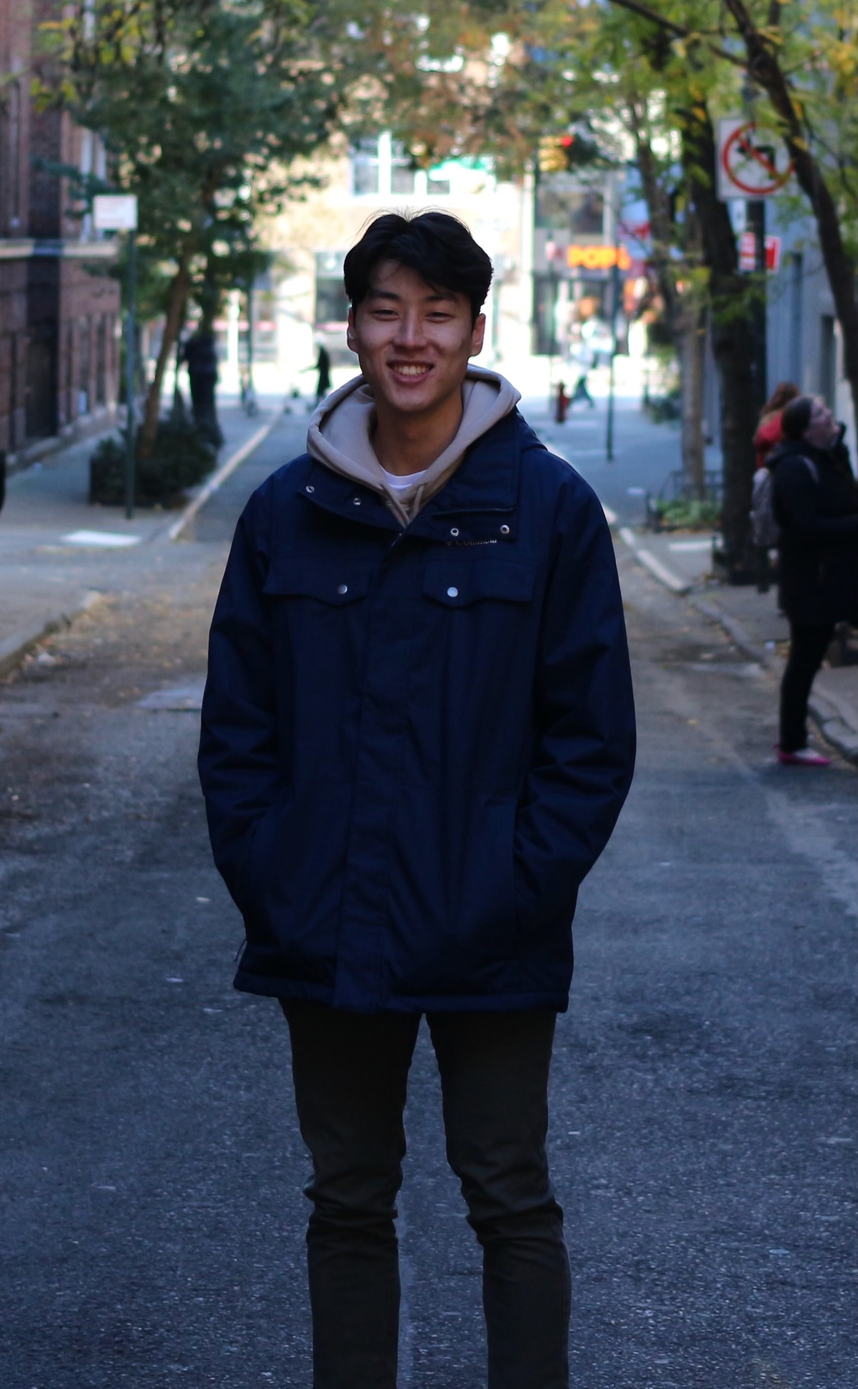
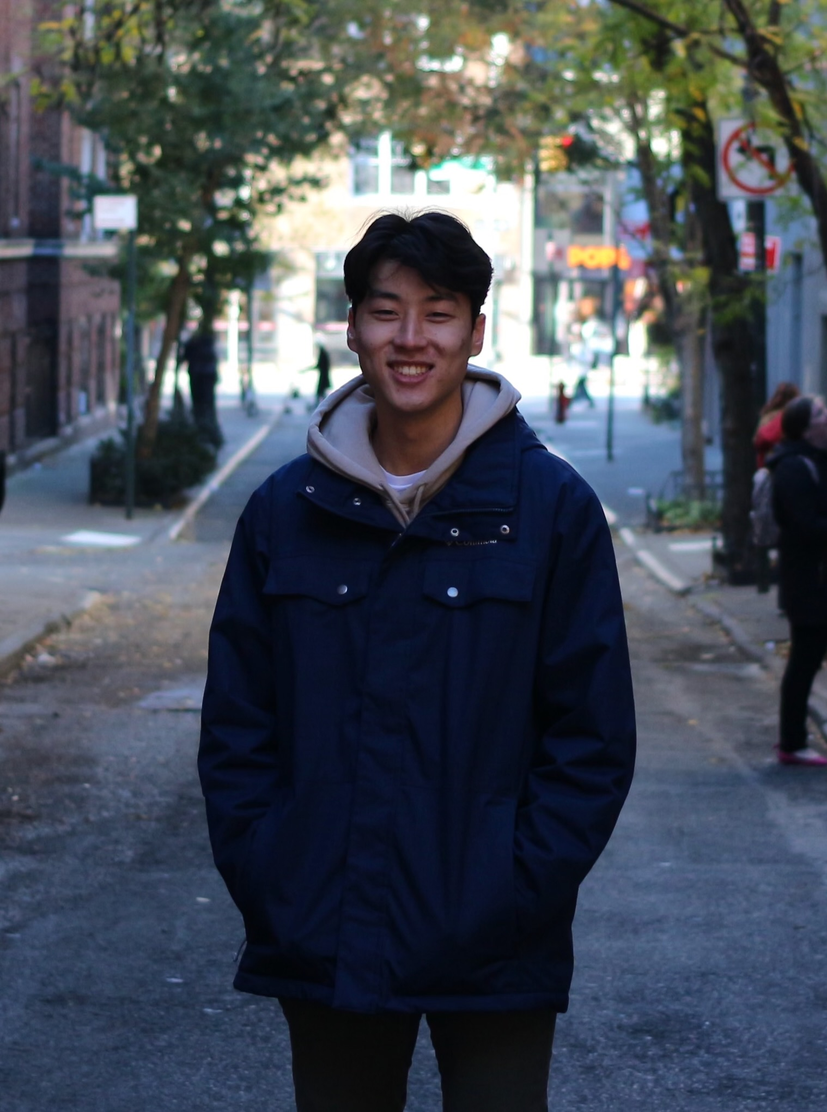
Complete the About section of the personal portfolio
This section provides more information about Jonathan
Kim's skills, experiences, and education as a college
student and a computer science major.

diff --git a/index.html b/index.html
@@ -29,14 +29,86 @@
                 <div class="header-text">
                     <p>Aspiring Software Developer</p>
                     <h1>
-                        Hi, I'm <span>Jonathan</span><br>from Massachusetts
+                        Hi, I'm <span>Jonathan</span><br> Kim from Boston
                     </h1>
                 </div>
                 <div class="image-container">
-                    <img src = "images/hero.jpeg" alt = "photo of Jonathan Kim"> 
+                    <img src = "images/user.jpeg" alt = "photo of Jonathan Kim"> 
                 </div>
             </div>
-        </div>     
+        </div>
+        <!------------- about ---------------->
+        <div id = "about">
+            <div class="container">
+                <div class="row">
+                    <div class="about-col-1">
+                        <img src="images/hero.jpeg" alt="photo two of Jonathan Kim">
+                    </div>
+                    <div class="about-col-2">
+                        <h1 class = "sub-title">About Me</h1>
+                        <p>
+                            Lorem ipsum dolor sit amet consectetur adipisicing elit. 
+                            Cum quibusdam, accusantium rem labore et ea quisquam dolorum 
+                            voluptatum impedit iste nulla provident amet officia possimus 
+                            a ratione. Porro, officia sunt?
+                        </p>
+
+                        <div class="tab-titles">
+                            <p class = "tab-links active-link" onclick = "opentab('skills')">Skills</p>
+                            <p class = "tab-links" onclick = "opentab('experience')">Experience</p>
+                            <p class = "tab-links" onclick = "opentab('education')">Education</p>
+                        </div>
+                        <div class="tab-contents active-tab" id = "skills">
+                            <ul>
+                                <li><span>Object Oriented Programming</span><br>Python, Java, C</li>
+                                <li><span>Web Development</span><br>HTML/CSS, JavaScript </li>
+                                <li><span>Statistical Analysis &amp; ML</span><br> R</li>
+                                <li><span>Version Control</span><br> Git, Github</li>
+                            </ul>
+                        </div>
+                        <div class="tab-contents" id = "experience">
+                            <ul>
+                                <li><span>June 2023 - Present</span><br>Machine learning research
+                                intern at Lyford Labs at Middlebury College</li>
+                                <li><span>February 2022 - Present</span><br>Computer science teacher
+                                assistant at the Middlebury College Center for Teaching, Learning, and 
+                                Research. </li>
+                                <li><span>June 2022 - August 2022</span><br> Cancer biology research 
+                                    assistant for Maitra Lab at MD Anderson Cancer Center </li>
+                                <li><span>May 2020 - August 2021</span><br> Psychiatric biology research 
+                                    assistant for Karmacharya Lab at Massachusetts General Hospital </li>
+                            </ul>
+                        </div>
+                        <div class="tab-contents" id = "education">
+                            <ul>
+                                <li><span>September 2021 - May 2026</span><br>Middlebury College</li>
+                                <li><span>September 2017 - May 2021</span><br>Buckingham Browne &amp; Nichols High School</li>
+                            </ul>
+                        </div>
+
+
+                    </div>
+                </div> 
+            </div>
+        </div>
     </div>
+
+        
+    <script>
+        let tablinks = document.getElementsByClassName("tab-links");
+        let tabcontents = document.getElementsByClassName("tab-contents");
+        function opentab(tabname) {
+            for (tablink of tablinks) {
+                tablink.classList.remove("active-link"); 
+            }
+            for (tabcontent of tabcontents) {
+                tabcontent.classList.remove("active-tab"); 
+            }
+            event.currentTarget.classList.add("active-link");
+            document.getElementById(tabname).classList.add("active-tab");
+        }
+    </script>
+</body>
+</html>     
 
     

diff --git a/style.css b/style.css
@@ -3,6 +3,7 @@
     padding: 0;
     font-family: "Poppins", sans-serif;
     box-sizing: border-box;
+    /* outline: 1px dotted red; */
 }
 
 body {
@@ -18,6 +19,8 @@ body {
 .container {
     padding: 10px 10%;
 }
+
+/* ----------- navigation bar ------------------ */
 
 nav {
     display: flex;
@@ -59,13 +62,16 @@ nav ul li a:hover::after {
     width: 100%;
 }
 
+/* ----------- header ------------------ */
+
 .header-content {
-    display:flex;
+    display: flex;
     justify-content: space-between;
+    align-items: center;
+    margin-top: 100px;
 }
 
 .header-text {
-    margin-top: 20%;
     font-size: 30px;
 }
 
@@ -75,7 +81,7 @@ nav ul li a:hover::after {
 }
 
 .header-text h1 span {
-    color: light-blue;
+    color: #38b6ff;
 }
 
 
@@ -83,6 +89,87 @@ nav ul li a:hover::after {
     max-width: 100%;
     height: 500px;
     object-fit: contain;
-    margin: 100px 0;
+    border-radius: 15px;
+
 }
 
+/* ----------- about ------------------ */
+
+#about {
+    padding: 80px 0;
+    color: #ababab;
+}
+
+.row {
+    display: flex;
+    justify-content: space-between;
+    flex-wrap: wrap;
+}
+
+.about-col-1 {
+    flex-basis: 35%;
+}
+.about-col-1 img {
+    width: 500px;
+    border-radius: 15px;
+} 
+
+.about-col-2 {
+    flex-basis: 50%;
+}
+
+.sub-title {
+    font-size: 60px;
+    font-weight: 600;
+    color: white;
+}
+
+.tab-titles {
+    display: flex;
+    margin: 20px 0 40px; 
+}
+
+.tab-links {
+    margin-right: 50px;
+    font-size: 18px;
+    font-weight: 500;
+    cursor: pointer;
+    position: relative;
+} 
+
+.tab-links::after {
+    content: "";
+    width: 0;
+    height: 3px;
+    background: red;
+    position: absolute;
+    left: 0;
+    bottom: -8px;
+    transition: 0.5s;
+}
+
+.tab-links.active-link::after{
+    width: 50%;
+} 
+
+.tab-contents ul li {
+    list-style: none;
+    margin: 10px 0;
+    font-size: 18px;
+}
+
+.tab-contents ul li span {
+    color: #b54769;
+    font-size: 16px;
+    text-decoration: underline;
+    font-weight: 400;
+    opacity: 0.8;
+}
+
+.tab-contents {
+    display: none;
+}
+
+.tab-contents.active-tab {
+    display: block;
+}
